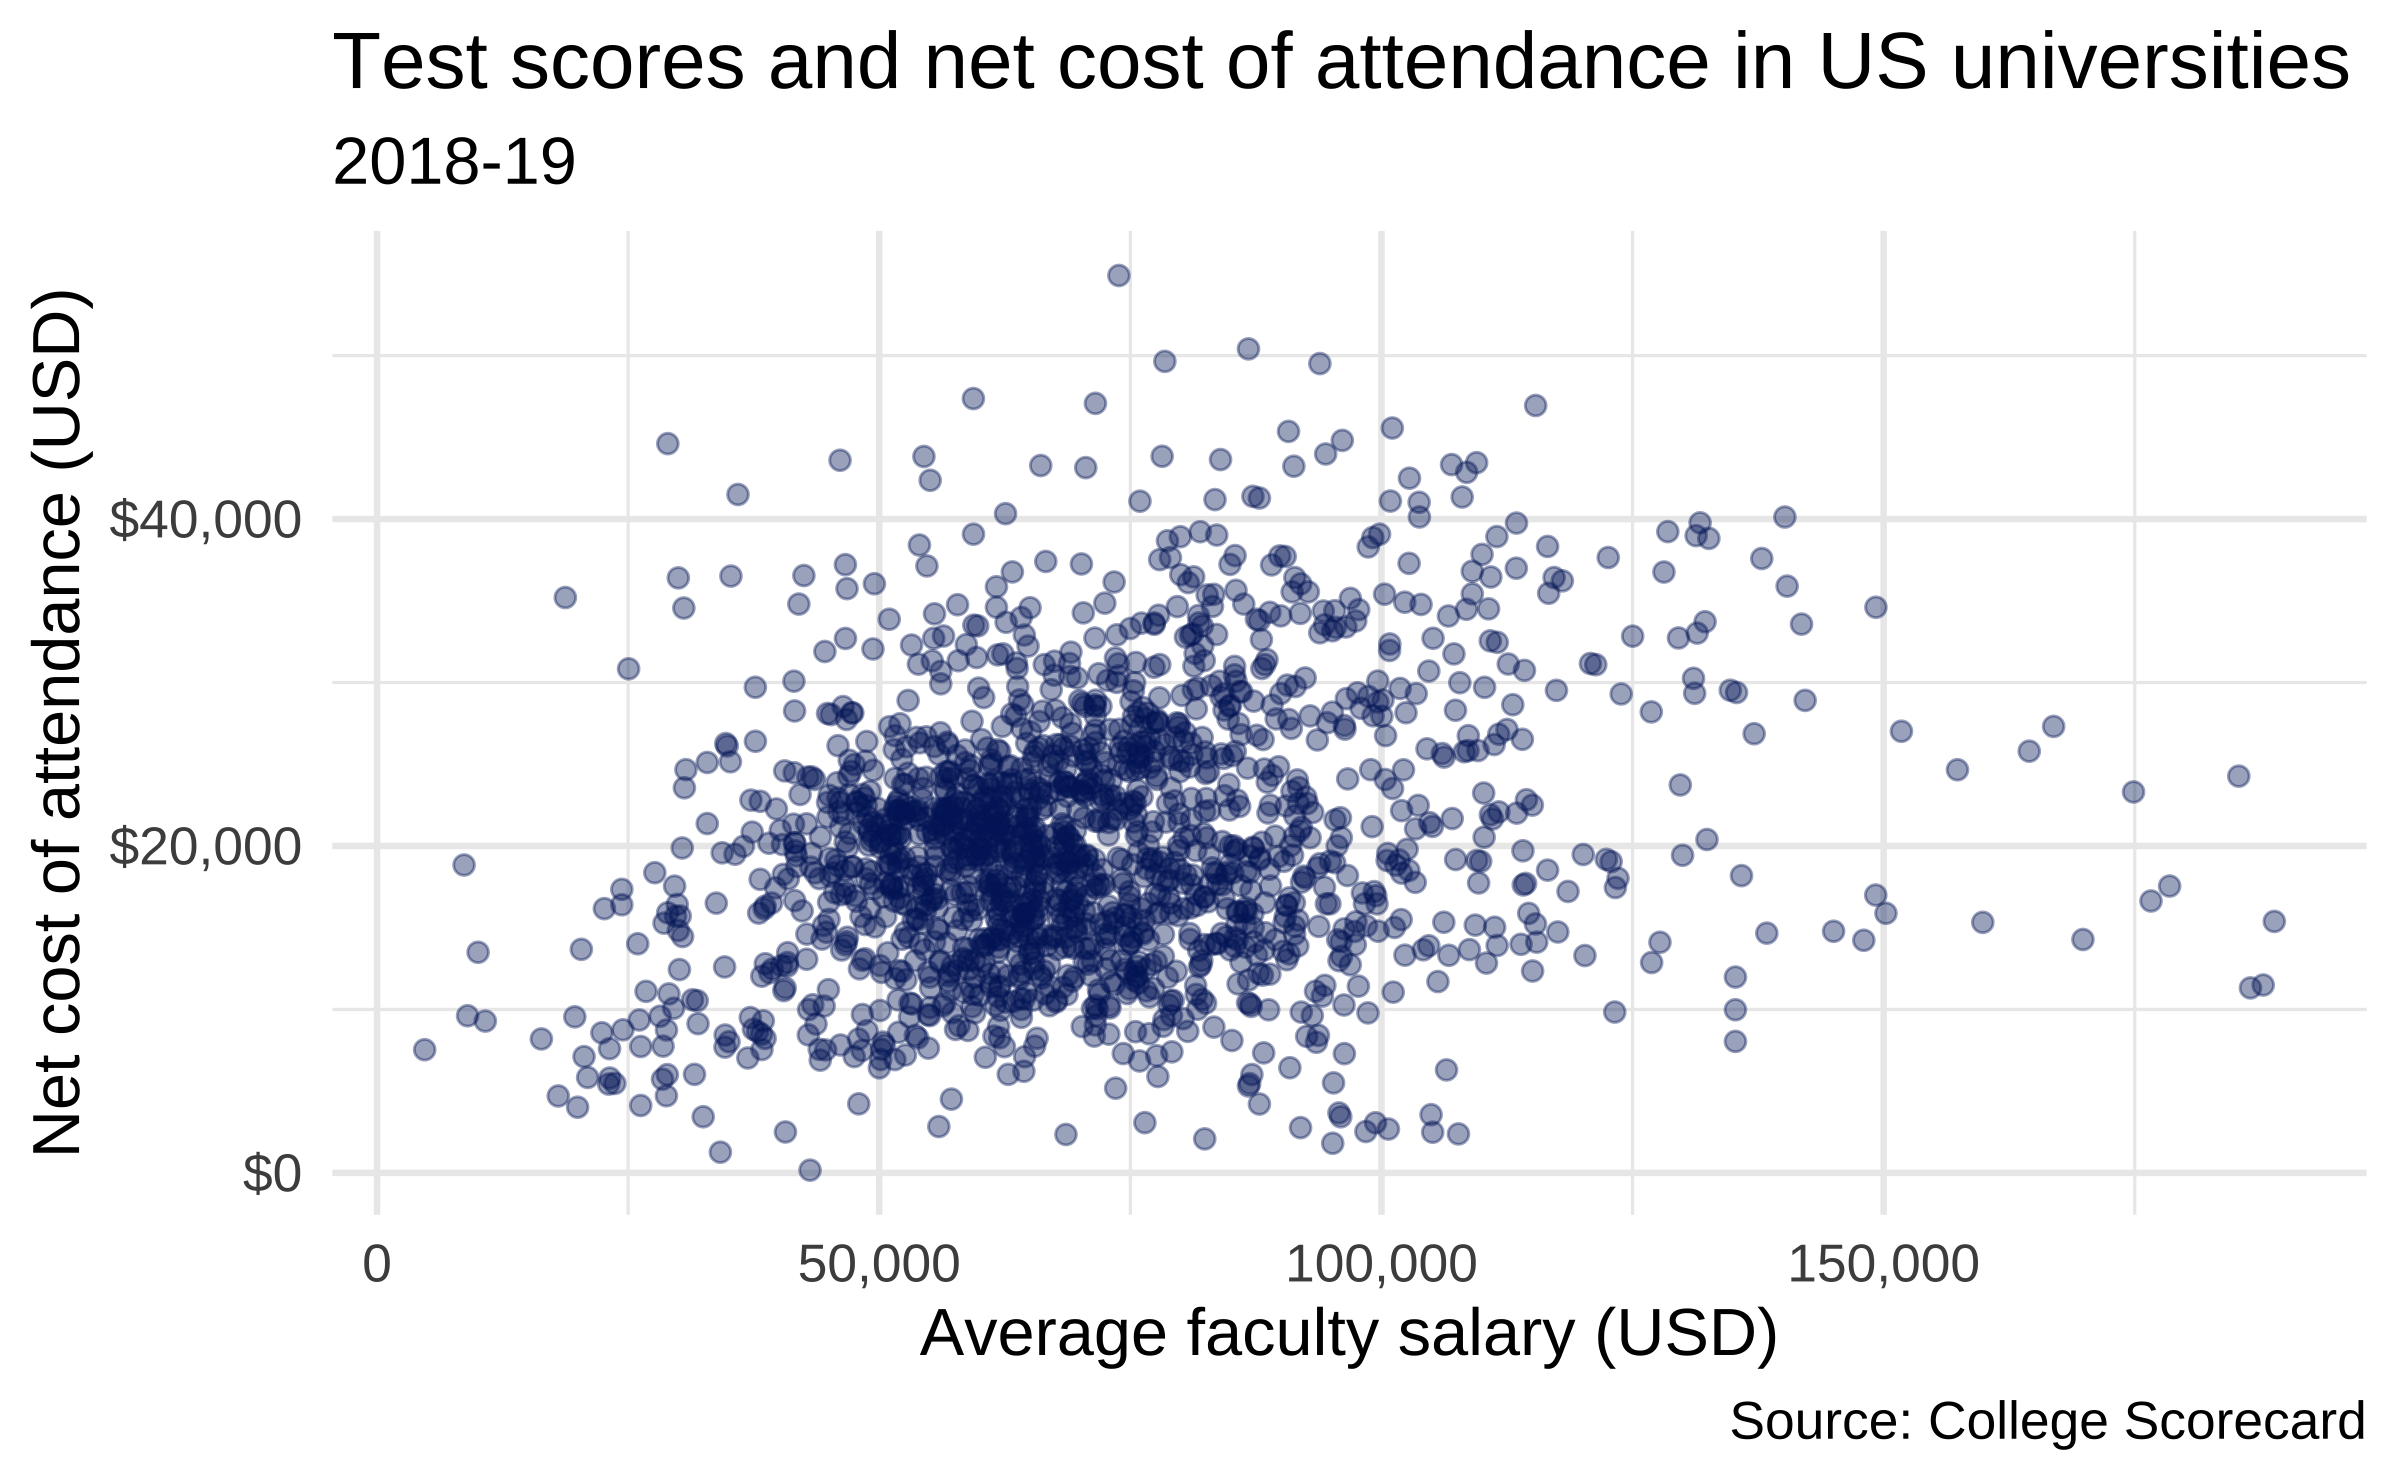
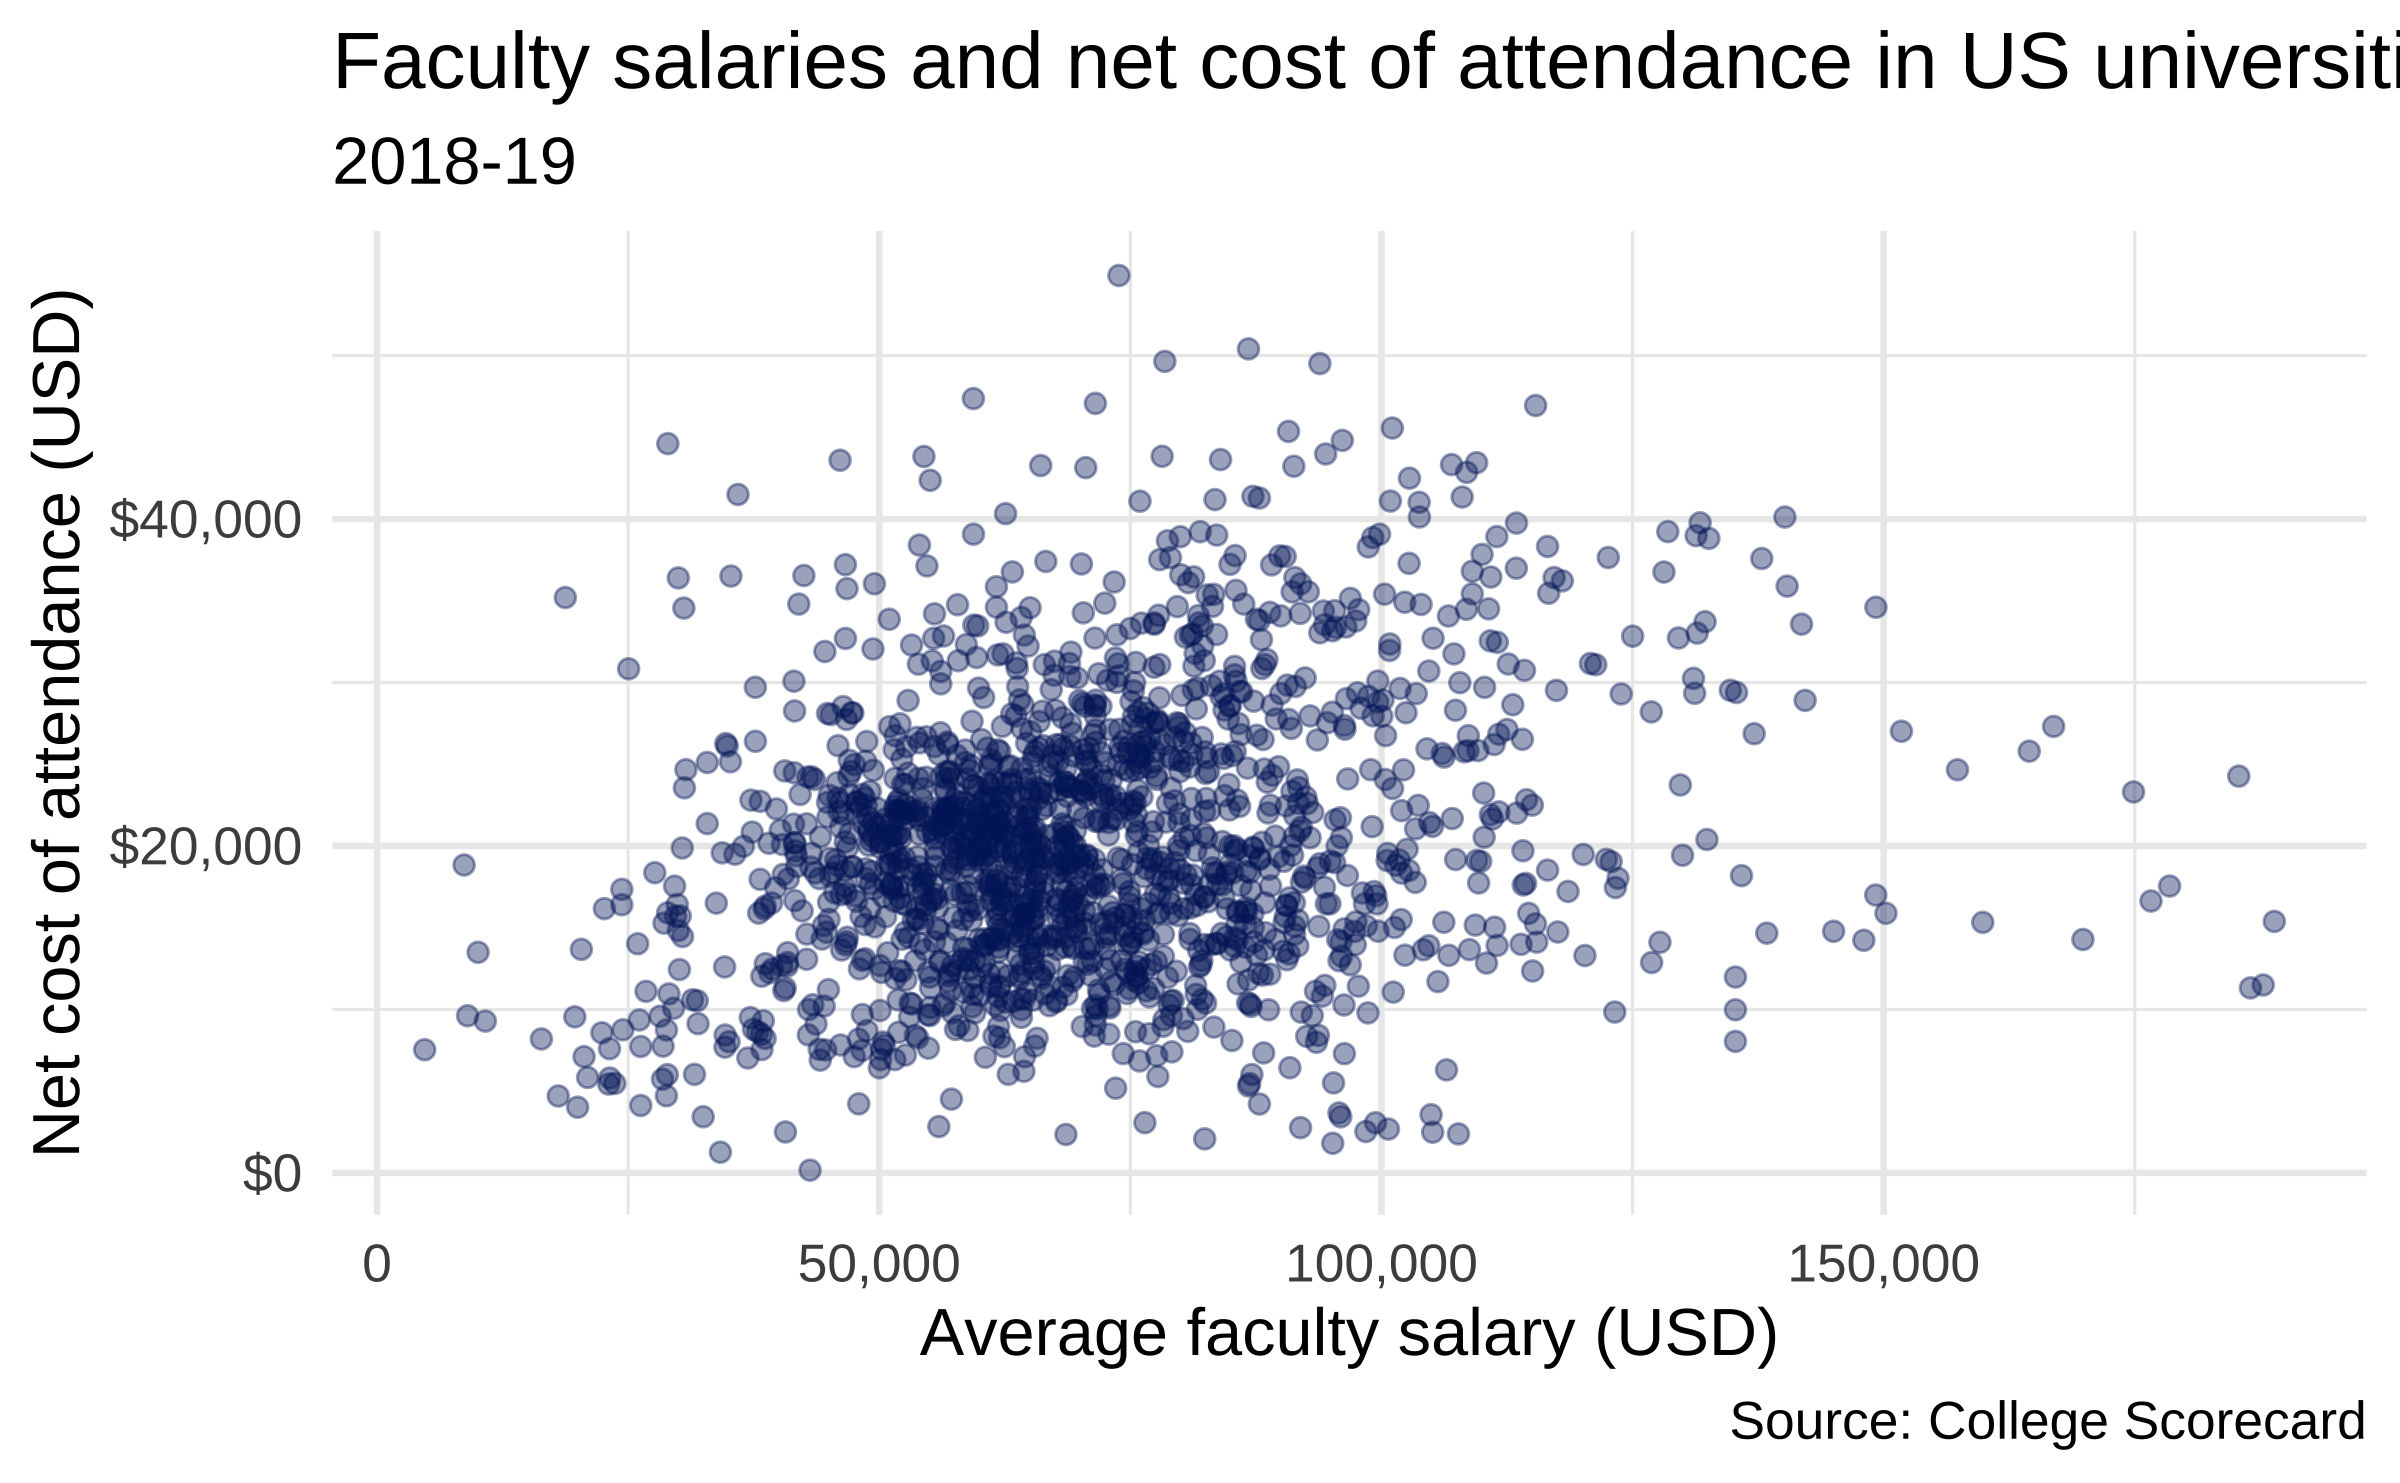
Clean up typos in day 4 slides

Changed region(s): [[0.125, 0.0, 1.0, 0.062]]

diff --git a/04-geoms/index.html b/04-geoms/index.html
@@ -32,14 +32,14 @@ class: middle, inverse
 ## Announcements
 
 - HW 1 is posted:
-  - Go to the course GitHub org and look for a repo named `homework-01-YOUR_GITHUB_NAME`
+  - Go to the course GitHub org and look for a repo named `hw01-YOUR_GITHUB_NAME`
   - Instructions are in the README
   - All work must be completed in `homework-01.Rmd` document, knit, and submitted along with the output `homework-01.md`
-  - Due Tuesday, Apr 12, by 11am
+  - Due Tuesday, Apr 12, by 11:59pm
   - At the deadline you'll lose push access to your repo, if you want to submit late, email me to enable late submission
   - Post questions on the discussion forum
 
-- Check email before class on Tuesday for your team assignments, sit with your teams in class on Tuesday
+- Check Canvas before class on Tuesday for your team assignments, sit with your teams in class
 
 ---
 
@@ -184,7 +184,7 @@ ggplot(scorecard, aes(x = avgfacsal, y = netcost)) +
   geom_smooth(method = "lm", se = FALSE, size = 0.5)
 ```
 
-<div class="countdown" id="timer_624c5f43" style="right:0;bottom:0;" data-warnwhen="0">
+<div class="countdown" id="timer_624c82cd" style="right:0;bottom:0;" data-warnwhen="0">
 <code class="countdown-time"><span class="countdown-digits minutes">03</span><span class="countdown-digits colon">:</span><span class="countdown-digits seconds">00</span></code>
 </div>
 
@@ -449,7 +449,7 @@ ggplot(scorecard, aes(x = netcost)) +
 
 &lt;img src="index_files/figure-html/unnamed-chunk-26-1.png" width="80%" style="display: block; margin: auto;" /&gt;
 
-<div class="countdown" id="timer_624c620c" style="right:0;bottom:0;" data-warnwhen="0">
+<div class="countdown" id="timer_624c80d6" style="right:0;bottom:0;" data-warnwhen="0">
 <code class="countdown-time"><span class="countdown-digits minutes">03</span><span class="countdown-digits colon">:</span><span class="countdown-digits seconds">00</span></code>
 </div>
 
@@ -672,7 +672,7 @@ ggplot(scorecard, aes(x = type, y = netcost)) +
 ]
 ]
 
-<div class="countdown" id="timer_624c62c7" style="right:0;bottom:0;" data-warnwhen="0">
+<div class="countdown" id="timer_624c8416" style="right:0;bottom:0;" data-warnwhen="0">
 <code class="countdown-time"><span class="countdown-digits minutes">03</span><span class="countdown-digits colon">:</span><span class="countdown-digits seconds">00</span></code>
 </div>
 
@@ -828,7 +828,7 @@ ggplot(mean_netcost_pctpell, aes(x = pctpell, y = mean_netcost)) +
 ]
 ]
 
-<div class="countdown" id="timer_624c6173" style="right:0;bottom:0;" data-warnwhen="0">
+<div class="countdown" id="timer_624c83b7" style="right:0;bottom:0;" data-warnwhen="0">
 <code class="countdown-time"><span class="countdown-digits minutes">03</span><span class="countdown-digits colon">:</span><span class="countdown-digits seconds">00</span></code>
 </div>
 
@@ -859,7 +859,7 @@ ggplot(scorecard, aes(x = avgfacsal, y = netcost)) +
   labs(
     x = "Average faculty salary (USD)",
     y = "Net cost of attendance (USD)",
-    title = "Test scores and net cost of attendance in US universities",
+    title = "Faculty salaries and net cost of attendance in US universities",
     subtitle = "2018-19",
     caption = "Source: College Scorecard"
   )
@@ -940,7 +940,7 @@ mean_netcost_type_locale
 
 ```r
 ggplot(mean_netcost_type_locale, aes(x = type, y = locale)) +
-  geom_point(aes(color = mean_netcost), size = 40, pch = "square")
+  geom_point(aes(color = mean_netcost), size = 30, pch = "square")
 ```
 
 &lt;img src="index_files/figure-html/unnamed-chunk-56-1.png" width="60%" style="display: block; margin: auto;" /&gt;
@@ -960,7 +960,7 @@ For each of the following problems, suggest a useful geom:
 1. Label outlying points in a single variable
 ]
 
-<div class="countdown" id="timer_624c62e7" style="right:0;bottom:0;" data-warnwhen="0">
+<div class="countdown" id="timer_624c82dd" style="right:0;bottom:0;" data-warnwhen="0">
 <code class="countdown-time"><span class="countdown-digits minutes">03</span><span class="countdown-digits colon">:</span><span class="countdown-digits seconds">00</span></code>
 </div>
 
